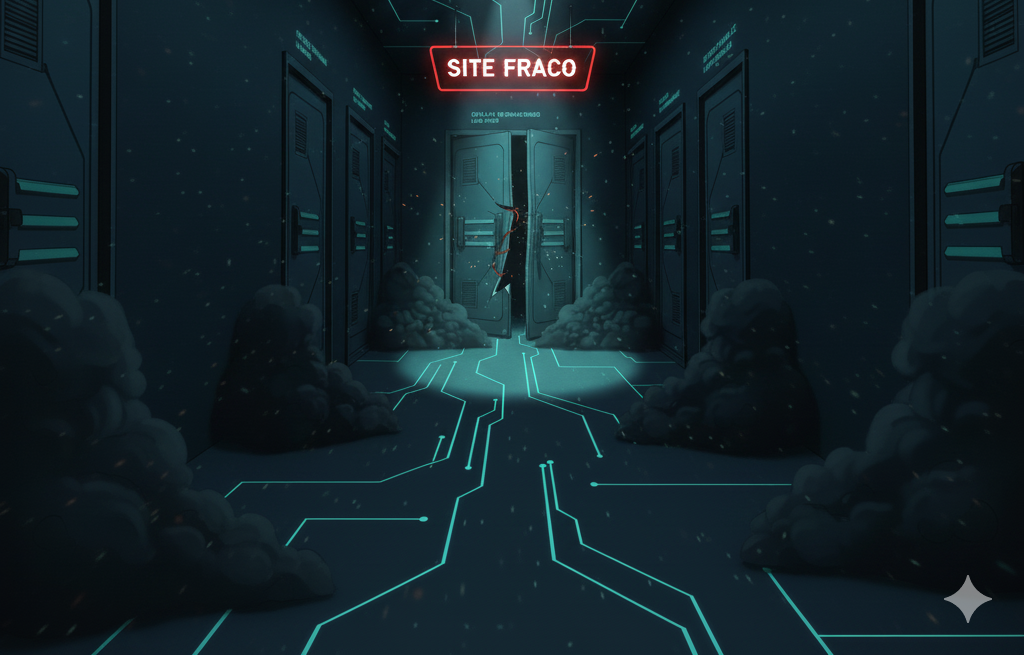
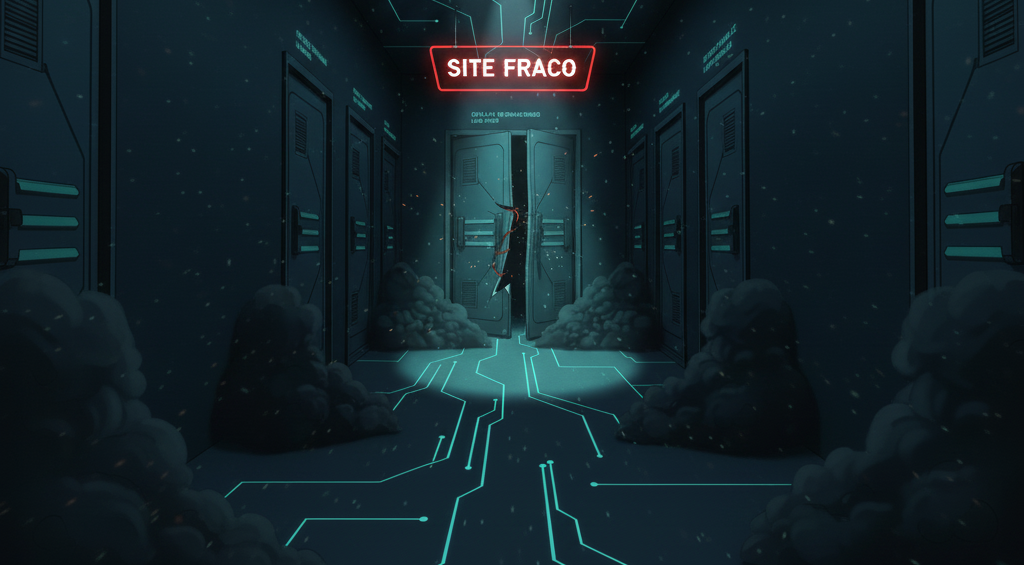
Ajuste de imagens

diff --git a/Páginas de Storybook/Untitled-4.html b/Páginas de Storybook/Untitled-4.html
@@ -263,7 +263,7 @@
             </div>
 
             <div id="frame-8" class="frame">
-                <img src="https://github.com/jeanscussel/credidefender/blob/main/Cen%C3%A1rios/Modulo%204/Gemini_Generated_Image_zw2wvzw2wvzw2wvz.png?raw=true" class="scene-background" alt="Cenário: Gri-Li exausto cercado por centenas de chaves">
+                <img src="https://github.com/jeanscussel/credidefender/blob/main/Cen%C3%A1rios/Modulo%204/Gemini_Generated_Image_2listg2listg2lis.png?raw=true" class="scene-background" alt="Cenário: Gri-Li exausto cercado por centenas de chaves">
                 
                 <img src="https://github.com/jeanscussel/credidefender/blob/main/Sem%20fundo/Plano%20m%C3%A9dio/Imagem19.png?raw=true" class="scene-mascot mascot-pos-canto" alt="Mascote Gri-Li exausto">
                 
